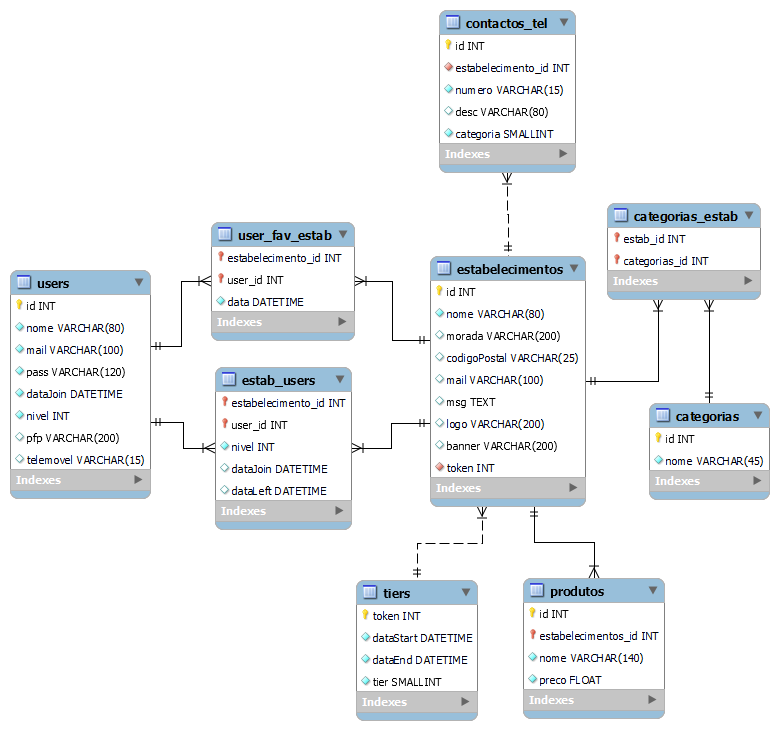
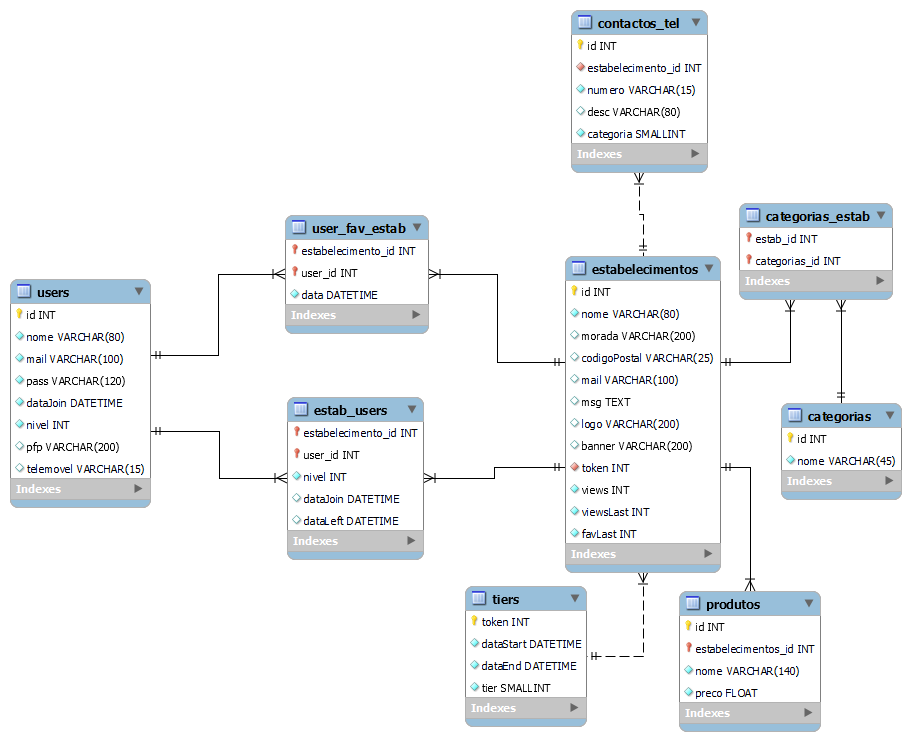
search by name, port db
Port new db
	view display
	fav display

search by name

diff --git a/spots/jscript/searchtags.js b/spots/jscript/searchtags.js
@@ -1,7 +1,10 @@
-function searchTags() {
-    document.getElementsByName("estabCard").forEach(a => {
-        a.style.display = "block";
-    });
+function searchTags(fromText) {
+    if (!fromText){
+        document.getElementsByName("estabCard").forEach(a => {
+            a.style.display = "";
+        });
+    }
+
     let tagSearch = document.getElementsByName("tags");
     var foundTags = [];
     tagSearch.forEach(a => {
@@ -53,7 +56,28 @@ function searchTags() {
     } 
   }
 
-function checkSearch($id) {
-    document.getElementById($id+"Src").checked = true;
-    searchTags();
+function checkSearch(id) {
+    document.getElementById(id+"Src").checked = true;
+    searchTags(false);
 }
+
+function searchText(input) {
+    // Declare variables
+    var filter, ul, li, a, i, txtValue;
+    //input = document.getElementsByClassName('search');
+    filter = input.value.toUpperCase();
+    ul = document.getElementById("content");
+    li = document.getElementsByName('estabCard');
+  
+    // Loop through all list items, and hide those who don't match the search query
+    for (i = 0; i < li.length; i++) {
+      a = li[i].getElementsByTagName("h5")[0];
+      txtValue = a.innerText;
+      if (txtValue.toUpperCase().indexOf(filter) > -1) {
+        li[i].style.display = "";
+      } else {
+        li[i].style.display = "none";
+      }
+    }
+    searchTags(true);
+  }

diff --git a/spots/other/header.html b/spots/other/header.html
@@ -16,7 +16,7 @@
           <a class="nav-link text-capitalize" href="precos.php">Criar Anuncio</a>
         </li>
         <li class="nav-item">
-          <a class="nav-link text-capitalize" href="perfil.php">Perfil</a>
+          <a class="nav-link text-capitalize" href="perfil.php?id=1">Perfil</a>
         </li>
       </ul>
       <div id="google_translate_element" class="mx-auto justify-content-end"></div>

diff --git a/spots/classes/estabecelimento.php b/spots/classes/estabecelimento.php
@@ -39,6 +39,17 @@ class Estabs{
             $logo = $row["logo"];
             $views = $row["views"];
             $viewsLast = $row["views"] - $row["viewsLast"];
+            $favLast = $this->getFav($id) - $row["favLast"];
+
+            if ($viewsLast >= 0)
+                $viewText = $views."(+".$viewsLast.")";
+            else
+                $viewText = $views."(".$viewsLast.")";
+
+            if ($favLast >= 0)
+                $favText =  $this->getFav($id)."(+".$favLast.")";
+            else
+                $favText =  $this->getFav($id)."(".$favLast.")";
         
             $tags = new Tags;
             $result = $this->getTags($id);
@@ -62,13 +73,13 @@ class Estabs{
                     <div class="input-group-prepend">
                         <span class="input-group-text" id="basic-addon1">&#128064; Visualizações</span>
                     </div>
-                    <input readonly type="text" class="form-control notranslate" aria-describedby="basic-addon1" value="<?=$views."(+".$viewsLast.")"?>">
+                    <input readonly type="text" class="form-control notranslate" aria-describedby="basic-addon1" value="<?=$viewText?>">
                 </div>
                 <div class="input-group mb-3">
                     <div class="input-group-prepend">
                         <span class="input-group-text" id="basic-addon1">&#11088; Favoritos</span>
                     </div>
-                    <input readonly type="text" class="form-control notranslate" aria-describedby="basic-addon1" value="7 (-2)">
+                    <input readonly type="text" class="form-control notranslate" aria-describedby="basic-addon1" value="<?=$favText?>">
                 </div>
                 <span id="basic-addon1">*(+/-) é a diferença desde o último mês</span>
             </li>
@@ -176,7 +187,8 @@ class Estabs{
         $con = $this->conexao;
         $resultado=$con->query($sql);
         $dados=$resultado->fetchAll();
-        return $dados;
+        foreach($dados as $row)
+            return $row["COUNT(users.id)"];
     }
 
     function checkLike($op){

diff --git a/spots/site/list.php b/spots/site/list.php
@@ -30,7 +30,7 @@
         <div class="input-group-prepend">
           <div class="input-group-text">&#x1F50D;</div>
         </div>
-        <input type="text" class="form-control" id="inlineFormInputGroup" placeholder="Pesquisar...">
+        <input type="text" class="form-control" id="inlineFormInputGroup" onkeyup="searchText(this)" placeholder="Pesquisar...">
       </div>
 
     <p>
@@ -44,7 +44,7 @@
         </div>
     </div>
     </div>
-    <div class="d-flex flex-column">
+    <div class="d-flex flex-column content">
         <fieldset class="border border-warning destaques" style="margin-bottom: 1rem">
             <legend class="text-left text-capitalize">Destaques</legend>
         </fieldset>

diff --git a/spots/site/perfil.php b/spots/site/perfil.php
@@ -32,9 +32,9 @@
 <body>
 <?php include("../other/header.html");?>
 <div id="main">
-    <p class="h1 text-center text-capitalize notranslate"><?=$nome?></p>
     <div class="card mb-3">
         <div class="card-body">
+        <p class="h1 text-center text-capitalize notranslate"><?=$nome?></p>
         <li class="media">
             <img class="mr-3 estabLogo" src="../imgs/pfp/<?=$pfp?>" alt="Generic placeholder image">
             <ul class="list-group list-group-flush">

diff --git a/spots/classes/tags.php b/spots/classes/tags.php
@@ -49,7 +49,7 @@ class Tags{
             ?>
             
             <label class="badge badge-secondary text-capitalize active">
-                <input type="checkbox" name="tags" id="<?=$id."Src"?>" onclick="searchTags()"> <?=$name?>
+                <input type="checkbox" name="tags" id="<?=$id."Src"?>" onclick="searchTags(false)"> <?=$name?>
             </label><?php
         
         }
